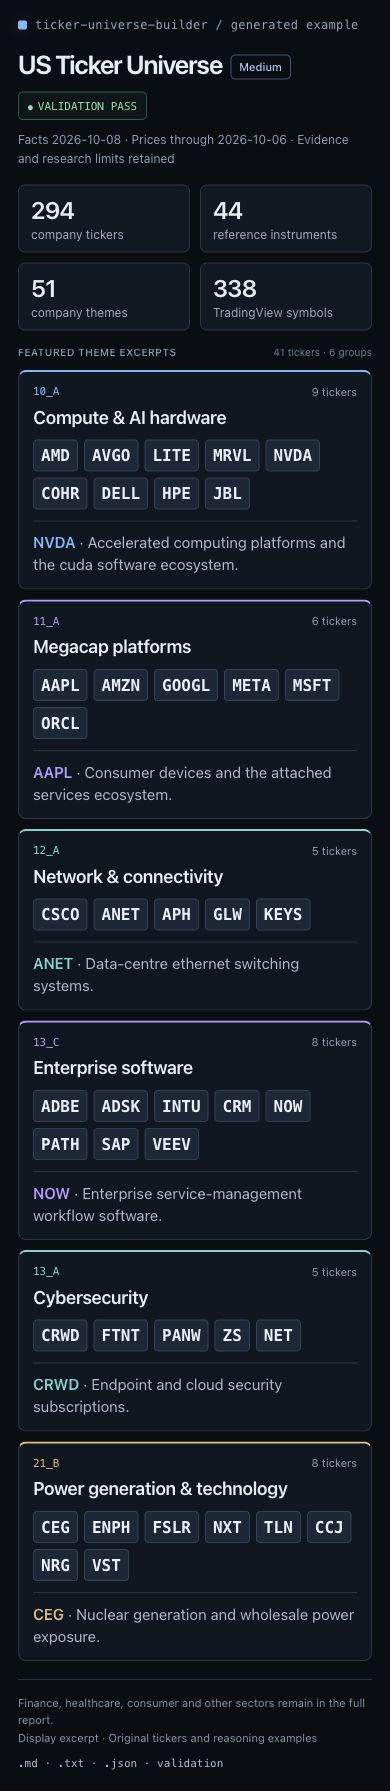
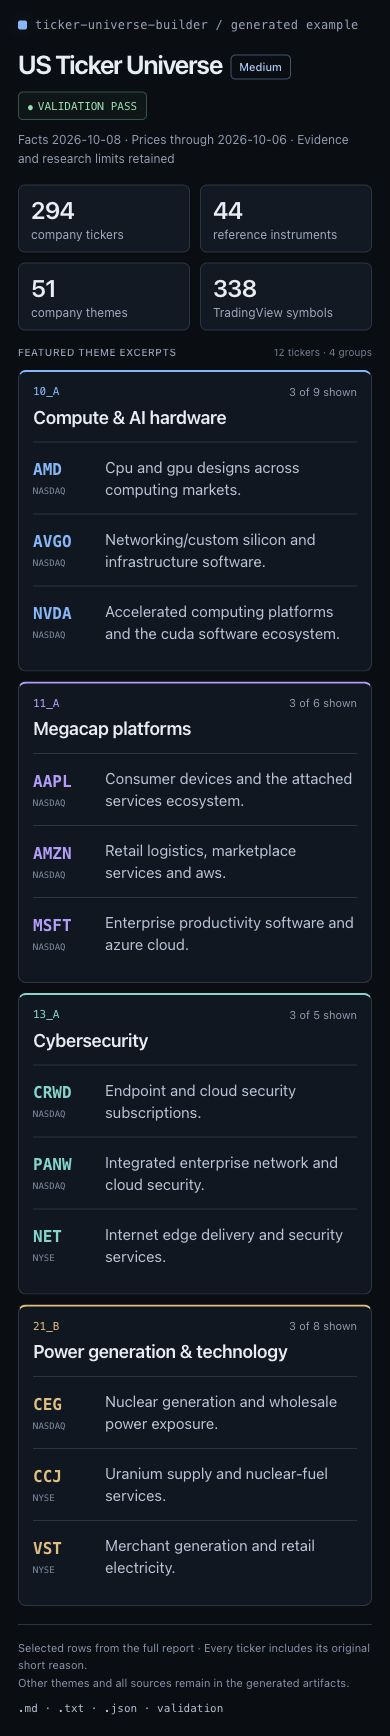
Show a short description for every ticker in README previews

diff --git a/docs/media/universe-report.html b/docs/media/universe-report.html
@@ -14,14 +14,13 @@ main{width:880px;max-width:100%;margin:auto;padding:26px}
 .section-label{display:flex;justify-content:space-between;gap:14px;align-items:center;font-size:11px;letter-spacing:.5px;color:#91a2bb;margin-bottom:12px}.section-label b{font-weight:500}.section-label span{color:#6f8098;letter-spacing:0}
 .grid{display:grid;grid-template-columns:repeat(2,1fr);gap:12px}.card{background:#101721;border:1px solid #2a3545;border-top:2px solid var(--accent);border-radius:8px;padding:14px 16px;display:flex;flex-direction:column}
 .card header{display:flex;justify-content:space-between;align-items:center}.code{font:11px ui-monospace,monospace;color:var(--accent)}.count{font-size:11px;color:#8f9eb3}h2{font-size:20px;font-weight:600;letter-spacing:-.3px;margin:9px 0 13px}
-.tickers{display:flex;gap:6px;flex-wrap:wrap;align-content:start;min-height:68px}.ticker{font:600 17px/22px ui-monospace,SFMono-Regular,monospace;color:#e8f0fb;padding:4px 7px;background:#1b2737;border:1px solid #304157;border-radius:4px}
-.reason{font-size:16px;line-height:23px;color:#aab9ce;margin:13px 0 0;padding-top:10px;border-top:1px solid #283445}.reason b{color:var(--accent);font-weight:600}
+.entries{margin-top:2px}.entry{display:grid;grid-template-columns:68px 1fr;gap:12px;align-items:center;padding:12px 0;border-top:1px solid #283445;min-height:76px}.ticker b{font:600 17px/23px ui-monospace,SFMono-Regular,monospace;color:var(--accent);display:block}.ticker small{font:9px/14px ui-monospace,monospace;color:#788aa3;display:block;margin-top:3px}.description{font-size:16px;line-height:23px;color:#b7c5d8;margin:0}
 footer{margin-top:18px;border-top:1px solid #283445;padding-top:14px;color:#8394ad;font-size:11px;line-height:1.6;display:flex;justify-content:space-between;gap:14px}.files{font:11px/1.6 ui-monospace,monospace;color:#b1bfd3;white-space:nowrap}
-@media(max-width:600px){main{padding:18px;width:390px}.hero{display:block;margin:17px 0 10px}h1{font-size:26px}.depth{font-size:11px}.pass{display:inline-block;margin-top:12px}.stats{grid-template-columns:repeat(2,1fr);margin:16px 0}.stat{padding:10px 12px}.stat b{font-size:24px}.section-label{font-size:10px}.grid{grid-template-columns:1fr;gap:10px}.card{padding:13px 14px}h2{margin:8px 0 12px;font-size:18px}.tickers{min-height:0}.ticker{font-size:16px}.reason{margin-top:11px;font-size:15px;line-height:22px}footer{display:block}.files{display:block;margin-top:8px}}
+@media(max-width:600px){main{padding:18px;width:390px}.hero{display:block;margin:17px 0 10px}h1{font-size:26px}.depth{font-size:11px}.pass{display:inline-block;margin-top:12px}.stats{grid-template-columns:repeat(2,1fr);margin:16px 0}.stat{padding:10px 12px}.stat b{font-size:24px}.section-label{font-size:10px}.grid{grid-template-columns:1fr;gap:10px}.card{padding:13px 14px}h2{margin:8px 0 12px;font-size:18px}.entry{grid-template-columns:62px 1fr;gap:10px;min-height:72px;padding:11px 0}.ticker b{font-size:16px}.description{font-size:15px;line-height:22px}footer{display:block}.files{display:block;margin-top:8px}}
 </style><main>
 <div class="brand"><span class="mark"></span>ticker-universe-builder / generated example</div>
 <div class="hero"><h1>US Ticker Universe<span class="depth">Medium</span></h1><span class="pass">VALIDATION PASS</span></div>
 <p class="subtitle">Facts 2026-10-08 · Prices through 2026-10-06 · Evidence and research limits retained</p>
-<div class="stats"><div class="stat"><b>294</b><span>company tickers</span></div><div class="stat"><b>44</b><span>reference instruments</span></div><div class="stat"><b>51</b><span>company themes</span></div><div class="stat"><b>338</b><span>TradingView symbols</span></div></div><div class="section-label"><b>FEATURED THEME EXCERPTS</b><span>41 tickers · 6 groups</span></div><div class="grid"><section class="card" style="--accent:#79b8ff"><header><span class="code">10_A</span><span class="count">9 tickers</span></header><h2>Compute &amp; AI hardware</h2><div class="tickers"><span class="ticker" title="NASDAQ:AMD">AMD</span><span class="ticker" title="NASDAQ:AVGO">AVGO</span><span class="ticker" title="NASDAQ:LITE">LITE</span><span class="ticker" title="NASDAQ:MRVL">MRVL</span><span class="ticker" title="NASDAQ:NVDA">NVDA</span><span class="ticker" title="NYSE:COHR">COHR</span><span class="ticker" title="NYSE:DELL">DELL</span><span class="ticker" title="NYSE:HPE">HPE</span><span class="ticker" title="NYSE:JBL">JBL</span></div><p class="reason"><b>NVDA</b> · Accelerated computing platforms and the cuda software ecosystem.</p></section><section class="card" style="--accent:#b69cff"><header><span class="code">11_A</span><span class="count">6 tickers</span></header><h2>Megacap platforms</h2><div class="tickers"><span class="ticker" title="NASDAQ:AAPL">AAPL</span><span class="ticker" title="NASDAQ:AMZN">AMZN</span><span class="ticker" title="NASDAQ:GOOGL">GOOGL</span><span class="ticker" title="NASDAQ:META">META</span><span class="ticker" title="NASDAQ:MSFT">MSFT</span><span class="ticker" title="NYSE:ORCL">ORCL</span></div><p class="reason"><b>AAPL</b> · Consumer devices and the attached services ecosystem.</p></section><section class="card" style="--accent:#67d8ce"><header><span class="code">12_A</span><span class="count">5 tickers</span></header><h2>Network &amp; connectivity</h2><div class="tickers"><span class="ticker" title="NASDAQ:CSCO">CSCO</span><span class="ticker" title="NYSE:ANET">ANET</span><span class="ticker" title="NYSE:APH">APH</span><span class="ticker" title="NYSE:GLW">GLW</span><span class="ticker" title="NYSE:KEYS">KEYS</span></div><p class="reason"><b>ANET</b> · Data-centre ethernet switching systems.</p></section><section class="card" style="--accent:#b69cff"><header><span class="code">13_C</span><span class="count">8 tickers</span></header><h2>Enterprise software</h2><div class="tickers"><span class="ticker" title="NASDAQ:ADBE">ADBE</span><span class="ticker" title="NASDAQ:ADSK">ADSK</span><span class="ticker" title="NASDAQ:INTU">INTU</span><span class="ticker" title="NYSE:CRM">CRM</span><span class="ticker" title="NYSE:NOW">NOW</span><span class="ticker" title="NYSE:PATH">PATH</span><span class="ticker" title="NYSE:SAP">SAP</span><span class="ticker" title="NYSE:VEEV">VEEV</span></div><p class="reason"><b>NOW</b> · Enterprise service-management workflow software.</p></section><section class="card" style="--accent:#67d8ce"><header><span class="code">13_A</span><span class="count">5 tickers</span></header><h2>Cybersecurity</h2><div class="tickers"><span class="ticker" title="NASDAQ:CRWD">CRWD</span><span class="ticker" title="NASDAQ:FTNT">FTNT</span><span class="ticker" title="NASDAQ:PANW">PANW</span><span class="ticker" title="NASDAQ:ZS">ZS</span><span class="ticker" title="NYSE:NET">NET</span></div><p class="reason"><b>CRWD</b> · Endpoint and cloud security subscriptions.</p></section><section class="card" style="--accent:#e7bb76"><header><span class="code">21_B</span><span class="count">8 tickers</span></header><h2>Power generation &amp; technology</h2><div class="tickers"><span class="ticker" title="NASDAQ:CEG">CEG</span><span class="ticker" title="NASDAQ:ENPH">ENPH</span><span class="ticker" title="NASDAQ:FSLR">FSLR</span><span class="ticker" title="NASDAQ:NXT">NXT</span><span class="ticker" title="NASDAQ:TLN">TLN</span><span class="ticker" title="NYSE:CCJ">CCJ</span><span class="ticker" title="NYSE:NRG">NRG</span><span class="ticker" title="NYSE:VST">VST</span></div><p class="reason"><b>CEG</b> · Nuclear generation and wholesale power exposure.</p></section></div>
-<footer><div>Finance, healthcare, consumer and other sectors remain in the full report.<br>Display excerpt · Original tickers and reasoning examples</div><div class="files">.md · .txt · .json · validation</div></footer>
+<div class="stats"><div class="stat"><b>294</b><span>company tickers</span></div><div class="stat"><b>44</b><span>reference instruments</span></div><div class="stat"><b>51</b><span>company themes</span></div><div class="stat"><b>338</b><span>TradingView symbols</span></div></div><div class="section-label"><b>FEATURED THEME EXCERPTS</b><span>12 tickers · 4 groups</span></div><div class="grid"><section class="card" style="--accent:#79b8ff"><header><span class="code">10_A</span><span class="count">3 of 9 shown</span></header><h2>Compute &amp; AI hardware</h2><div class="entries"><div class="entry" data-ticker="NASDAQ:AMD"><div class="ticker"><b>AMD</b><small>NASDAQ</small></div><p class="description">Cpu and gpu designs across computing markets.</p></div><div class="entry" data-ticker="NASDAQ:AVGO"><div class="ticker"><b>AVGO</b><small>NASDAQ</small></div><p class="description">Networking/custom silicon and infrastructure software.</p></div><div class="entry" data-ticker="NASDAQ:NVDA"><div class="ticker"><b>NVDA</b><small>NASDAQ</small></div><p class="description">Accelerated computing platforms and the cuda software ecosystem.</p></div></div></section><section class="card" style="--accent:#b69cff"><header><span class="code">11_A</span><span class="count">3 of 6 shown</span></header><h2>Megacap platforms</h2><div class="entries"><div class="entry" data-ticker="NASDAQ:AAPL"><div class="ticker"><b>AAPL</b><small>NASDAQ</small></div><p class="description">Consumer devices and the attached services ecosystem.</p></div><div class="entry" data-ticker="NASDAQ:AMZN"><div class="ticker"><b>AMZN</b><small>NASDAQ</small></div><p class="description">Retail logistics, marketplace services and aws.</p></div><div class="entry" data-ticker="NASDAQ:MSFT"><div class="ticker"><b>MSFT</b><small>NASDAQ</small></div><p class="description">Enterprise productivity software and azure cloud.</p></div></div></section><section class="card" style="--accent:#67d8ce"><header><span class="code">13_A</span><span class="count">3 of 5 shown</span></header><h2>Cybersecurity</h2><div class="entries"><div class="entry" data-ticker="NASDAQ:CRWD"><div class="ticker"><b>CRWD</b><small>NASDAQ</small></div><p class="description">Endpoint and cloud security subscriptions.</p></div><div class="entry" data-ticker="NASDAQ:PANW"><div class="ticker"><b>PANW</b><small>NASDAQ</small></div><p class="description">Integrated enterprise network and cloud security.</p></div><div class="entry" data-ticker="NYSE:NET"><div class="ticker"><b>NET</b><small>NYSE</small></div><p class="description">Internet edge delivery and security services.</p></div></div></section><section class="card" style="--accent:#e7bb76"><header><span class="code">21_B</span><span class="count">3 of 8 shown</span></header><h2>Power generation &amp; technology</h2><div class="entries"><div class="entry" data-ticker="NASDAQ:CEG"><div class="ticker"><b>CEG</b><small>NASDAQ</small></div><p class="description">Nuclear generation and wholesale power exposure.</p></div><div class="entry" data-ticker="NYSE:CCJ"><div class="ticker"><b>CCJ</b><small>NYSE</small></div><p class="description">Uranium supply and nuclear-fuel services.</p></div><div class="entry" data-ticker="NYSE:VST"><div class="ticker"><b>VST</b><small>NYSE</small></div><p class="description">Merchant generation and retail electricity.</p></div></div></section></div>
+<footer><div>Selected rows from the full report · Every ticker includes its original short reason.<br>Other themes and all sources remain in the generated artifacts.</div><div class="files">.md · .txt · .json · validation</div></footer>
 </main></html>

diff --git a/docs/media/README.md b/docs/media/README.md
@@ -1,14 +1,16 @@
 # README illustration
 
 The dark [desktop image](universe-report.jpg) is designed for **880 px display width**,
-using two columns, 17 px ticker labels and 16 px reasoning text. The
+using two columns, 17 px ticker labels and 16 px descriptions. The
 [mobile image](universe-report-mobile.jpg) uses a **390 px single-column** design with
-16 px ticker labels and 15 px reasoning text. These are design targets, not fixed
+16 px ticker labels and 15 px descriptions. These are design targets, not fixed
 GitHub README dimensions. Increasing export resolution alone does not enlarge text
 when a wide image is scaled down.
 
-Both images show 41 original tickers across six complete US Medium display themes,
-with one original short-reason example per theme. Full per-ticker reasoning remains in
+Both images show **12 tickers across four US Medium theme excerpts**, with an
+original short description beside **every ticker**. Each theme shows three selected
+rows and discloses its full display-group count. The four excerpts cover compute/AI
+hardware, megacap platforms, cybersecurity and power technology. Full reasoning remains in
 the [generated Markdown](../../examples/us-medium/output/us-medium-2026-10-08.en.md).
 Ticker identities, merged group counts and reasons were checked against that report
 and its JSON. Featured themes are an editorial choice, not a live popularity ranking.
@@ -28,7 +30,7 @@ Markdown underneath so the image is not the only route to its information.
 ```html
 <picture>
   <source media="(max-width: 600px)" srcset="docs/media/universe-report-mobile.jpg">
-  <img src="docs/media/universe-report.jpg" width="880" alt="US Medium universe: 294 company tickers and 44 references, with six featured theme excerpts.">
+  <img src="docs/media/universe-report.jpg" width="880" alt="US Medium universe: 294 company tickers and 44 references, with four theme excerpts and descriptions for all 12 displayed tickers.">
 </picture>
 ```
 
